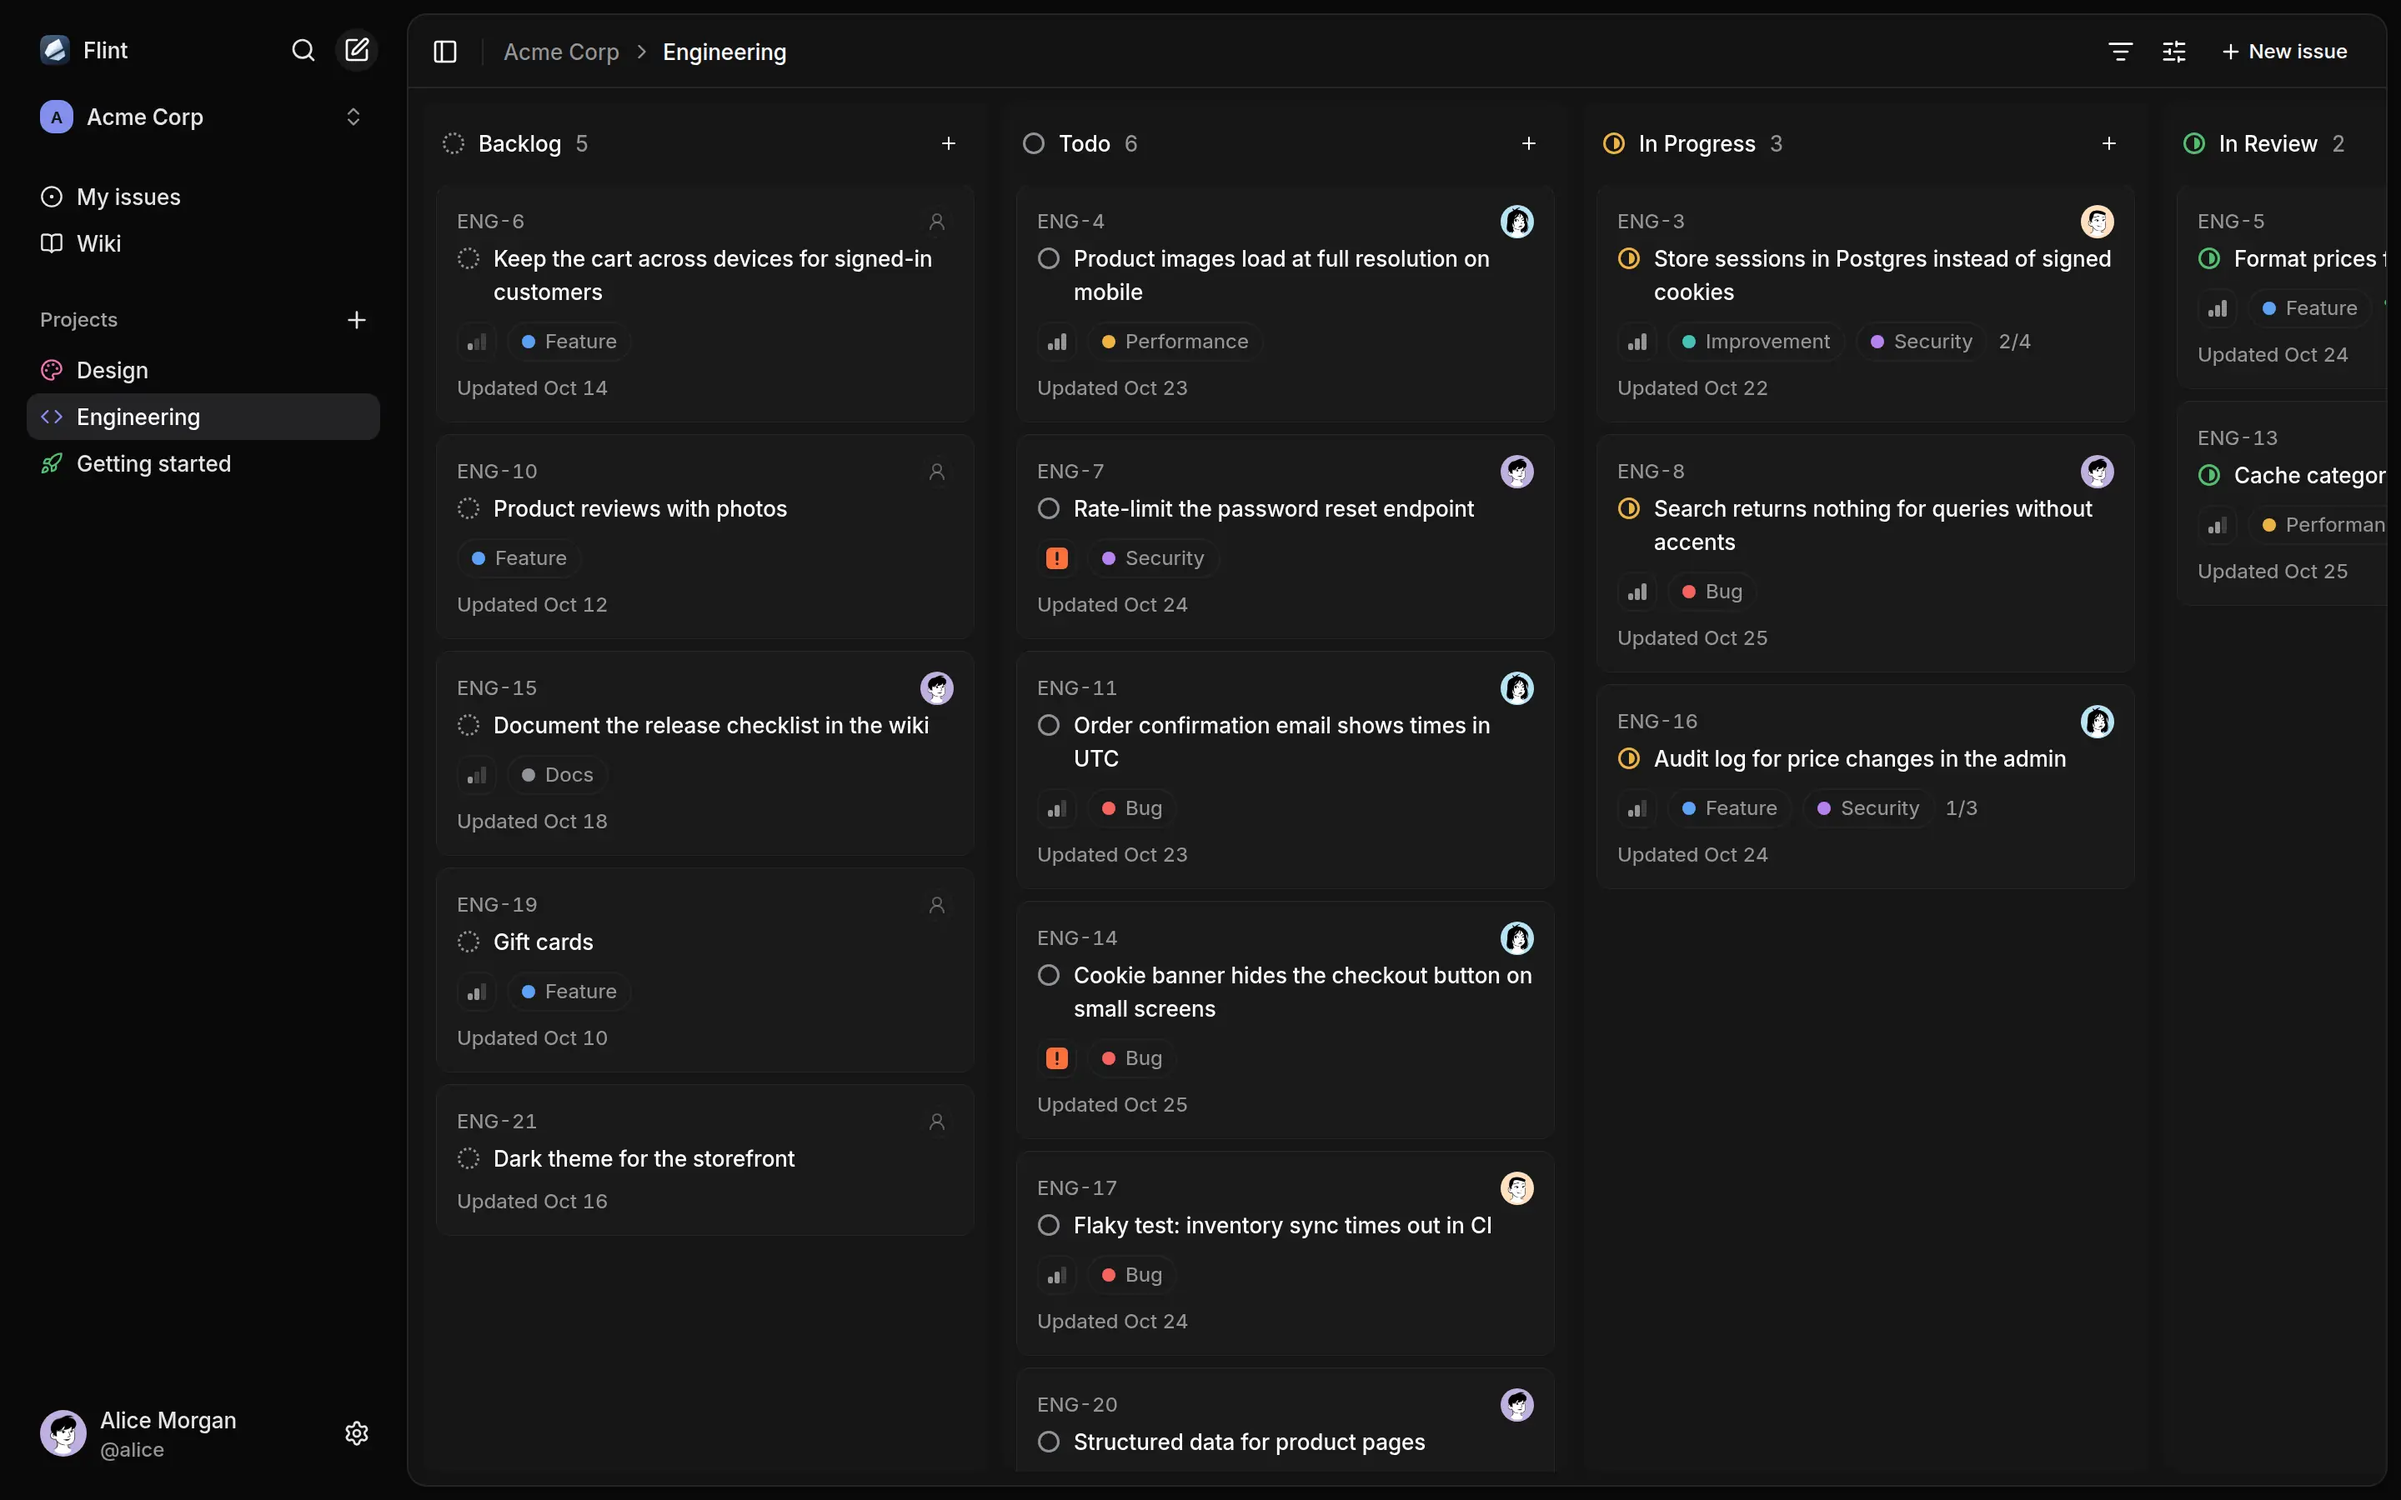
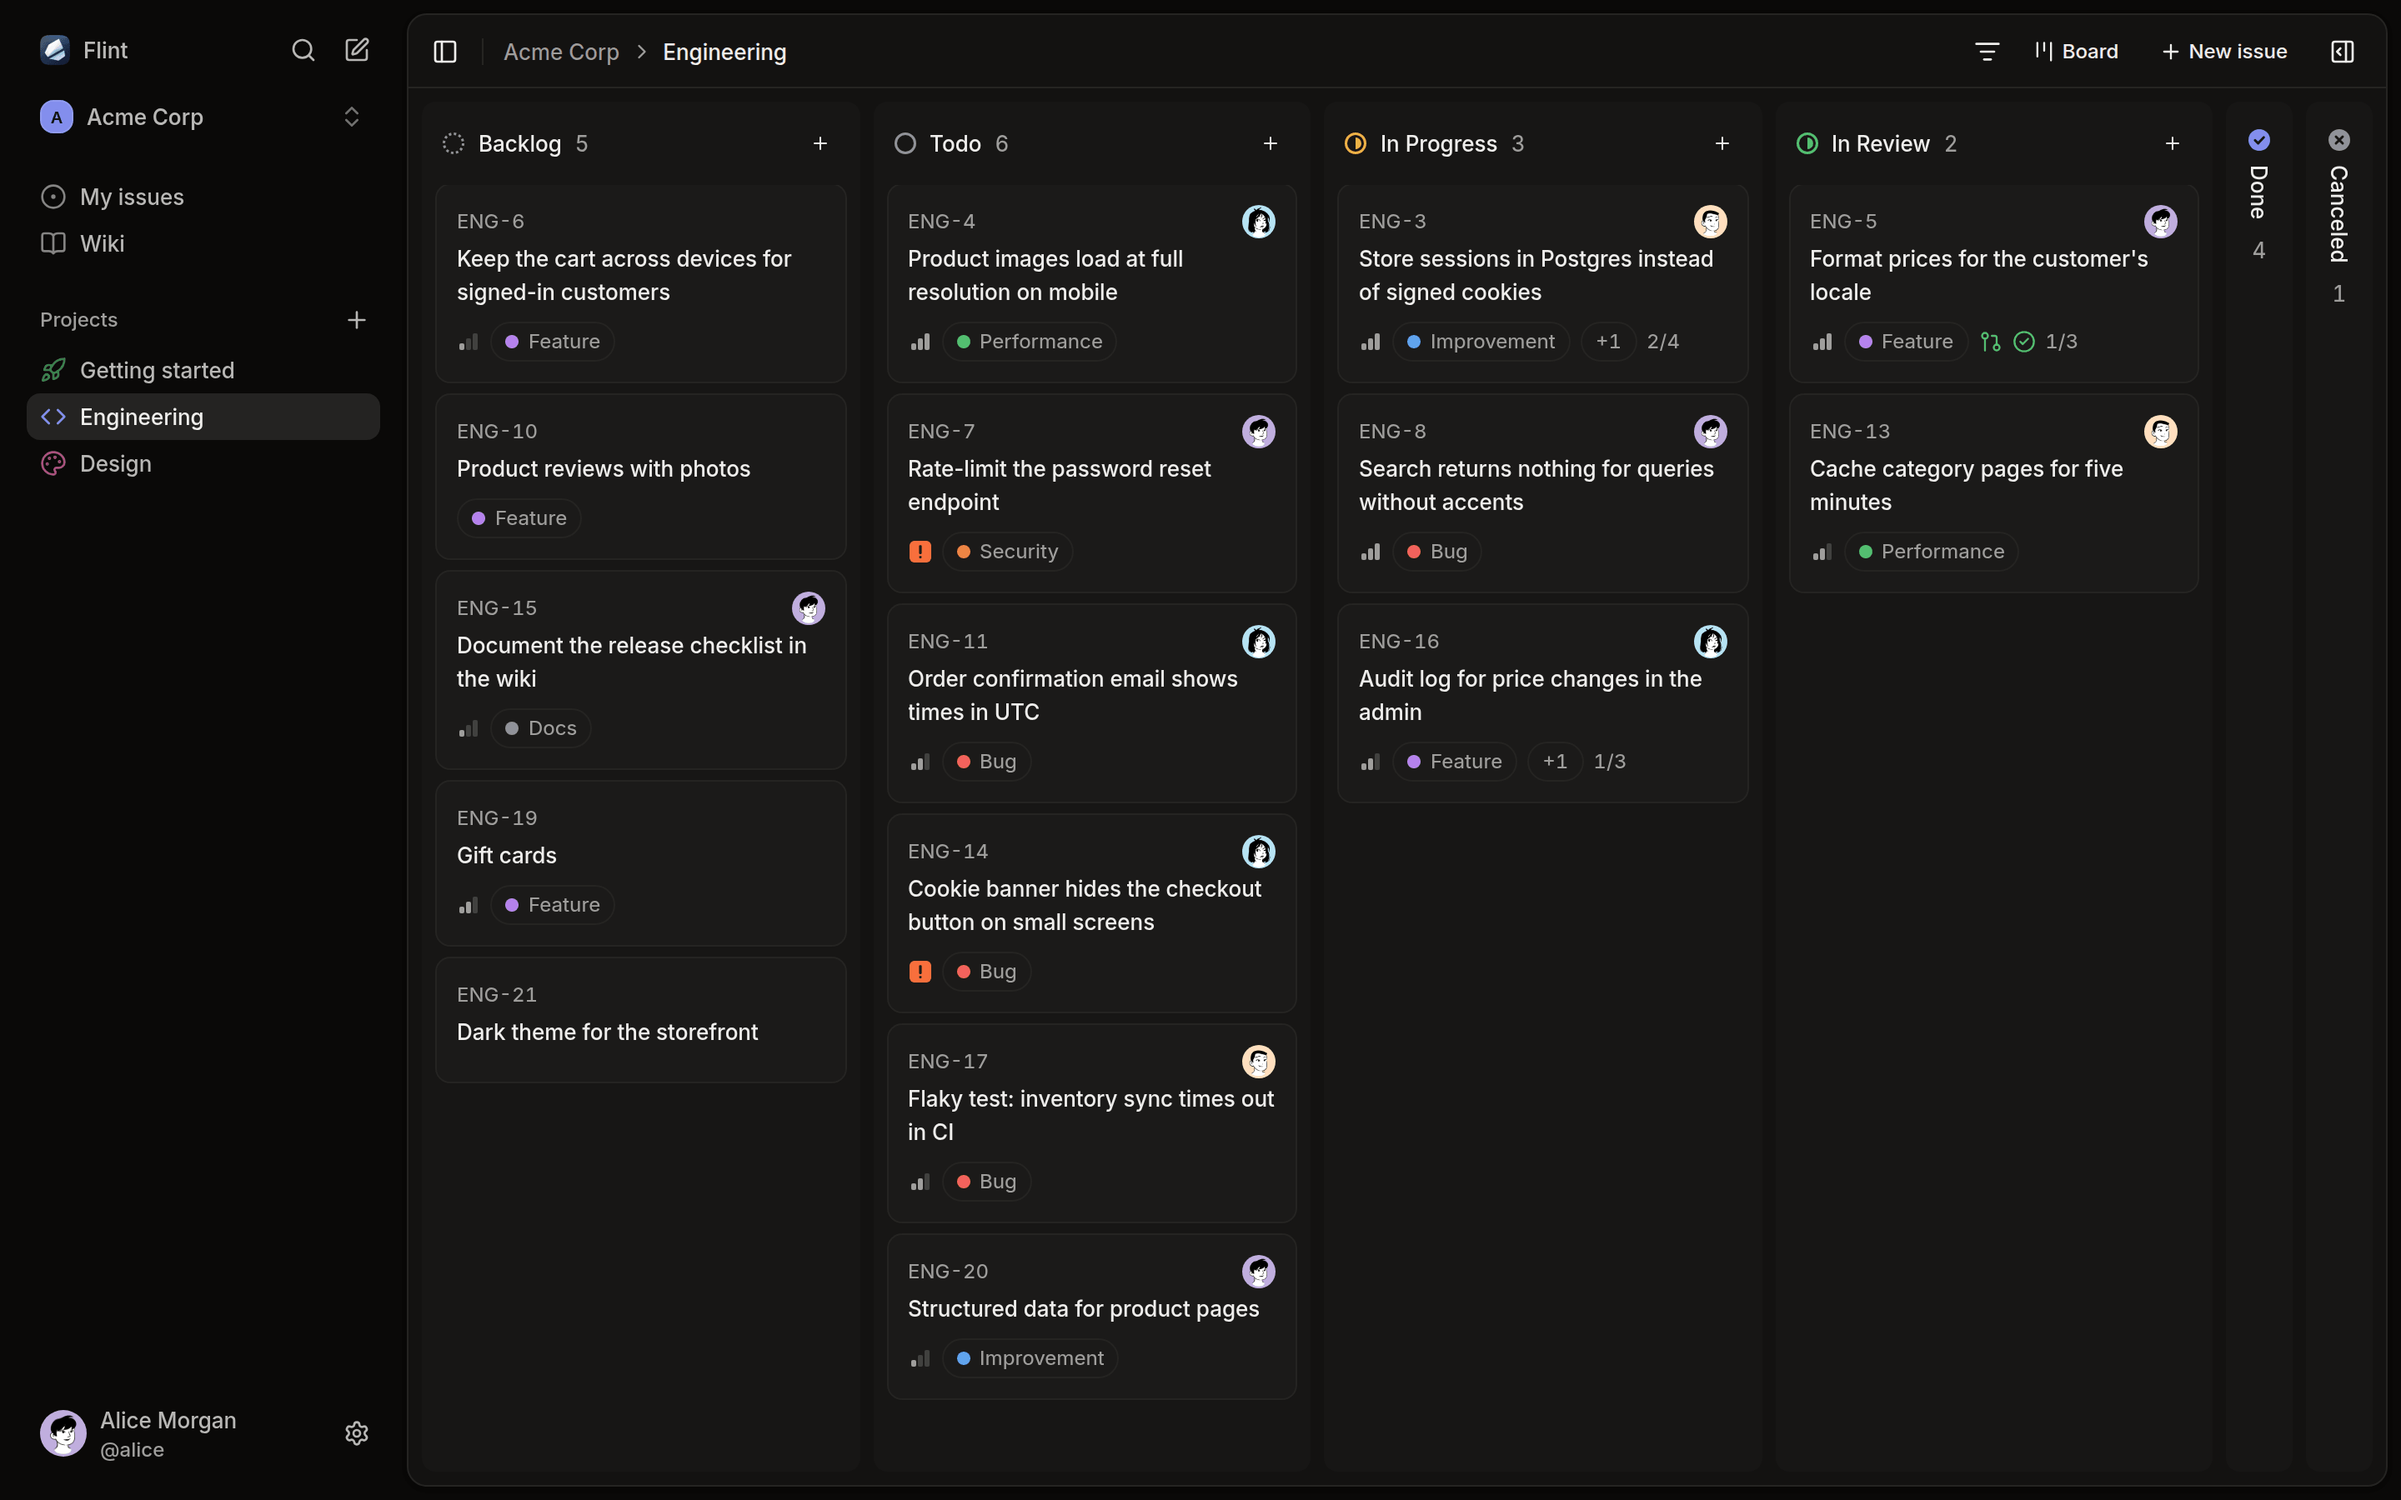
FLN-25 Retake the README and demo screenshots in the current UI

diff --git a/assets/README.md b/assets/README.md
@@ -8,3 +8,12 @@ bun scripts/dev/export-brand.ts
 ```
 
 The main README shows `screenshots/`. The image ships them too, because the Getting started page of a workspace created with demo data reads them from `assets/screenshots` in the server's working directory.
+
+To retake the screenshots, run Flint with `bun run demo` data (a worktree can use its own database, see [docs/development.md](../docs/development.md#worktrees)) and sign `agent-browser` in as `alice` at `set viewport 1440 900 2` and `set media dark`. Capture PNGs of the Engineering project in board layout (`board`), the Cmd+K menu searching `checkout` over the list layout (`search`), the full page of ENG-5 while a second session as `bob` has it open (`issue`) and `engineering/architecture` with its wiki folder expanded (`wiki`); blur the focused element and keep the pointer off the page. Convert each PNG once with Tinify, which keeps the 2880 × 1800 size:
+
+```sh
+for f in board issue search wiki; do
+  url=$(curl -sS --user "api:$TINIFY_API_KEY" --data-binary @"$f.png" -D - -o /dev/null https://api.tinify.com/shrink | tr -d '\r' | awk 'tolower($1) == "location:" { print $2 }')
+  curl -sS --user "api:$TINIFY_API_KEY" -H 'Content-Type: application/json' -d '{"convert":{"type":"image/webp"}}' -o "assets/screenshots/$f.webp" "$url"
+done
+```
